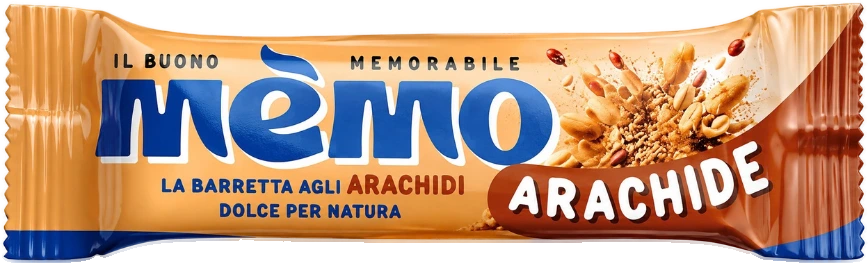
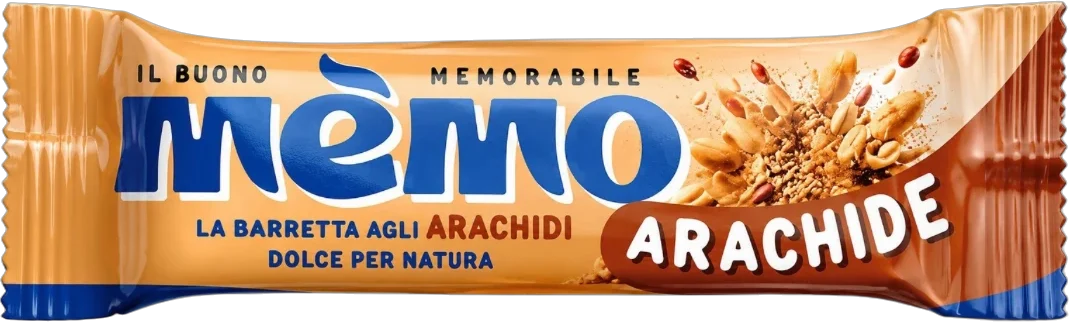
Barrette scontornate di nuovo e testo delle fasce più piccolo

diff --git a/app/globals.css b/app/globals.css
@@ -870,7 +870,7 @@ p {
 .marquee {
   position: relative;
   z-index: 3;
-  height: clamp(130px, 16vw, 210px);
+  height: clamp(110px, 11vw, 160px);
   margin: -1px 0;
   overflow-x: clip;
   background: linear-gradient(var(--blue) 50%, var(--choco) 50%);
@@ -881,7 +881,7 @@ p {
   width: 110%;
   top: 50%;
   overflow: hidden;
-  padding: 14px 0;
+  padding: 11px 0;
   box-shadow: 0 16px 40px rgba(0, 0, 0, 0.18);
 }
 .mq-band--blue {
@@ -904,10 +904,10 @@ p {
 .mq-item {
   display: flex;
   align-items: center;
-  gap: 28px;
-  padding-right: 28px;
+  gap: 22px;
+  padding-right: 22px;
   font-family: var(--font-display);
-  font-size: clamp(26px, 3.6vw, 52px);
+  font-size: clamp(22px, 2.4vw, 36px);
   line-height: 1.05;
   text-transform: uppercase;
   white-space: nowrap;
